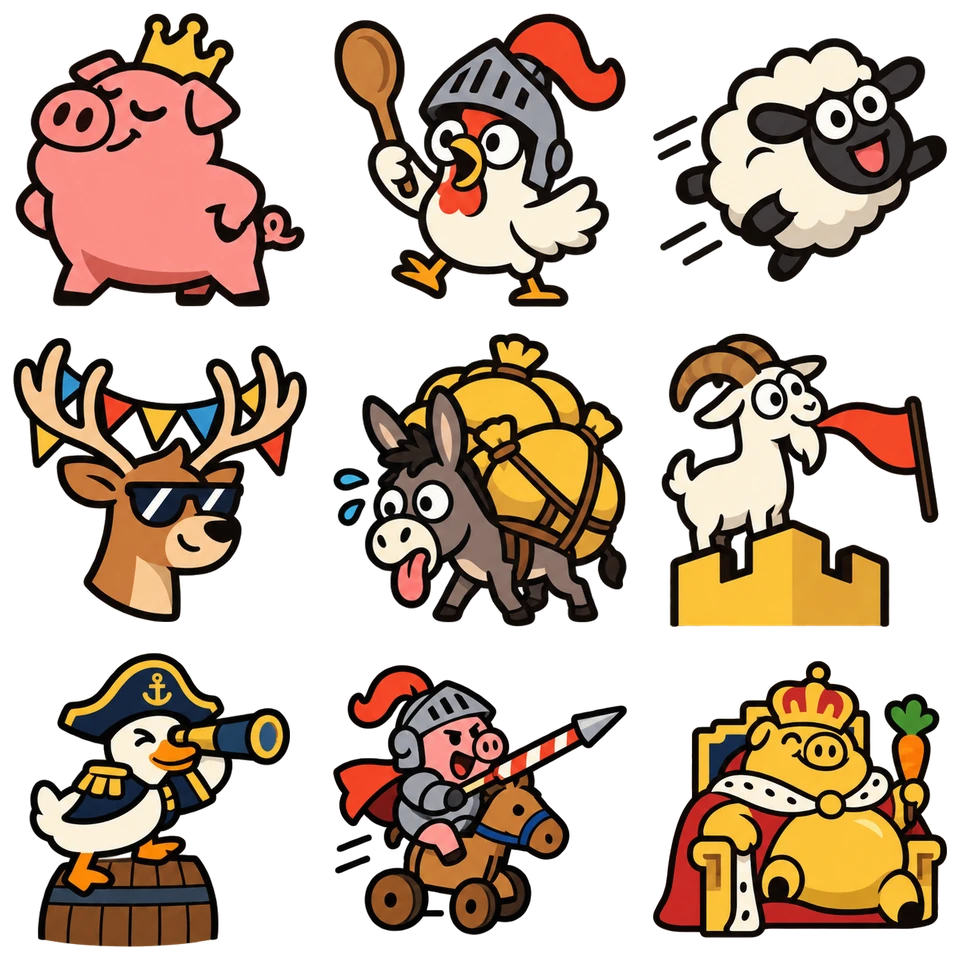
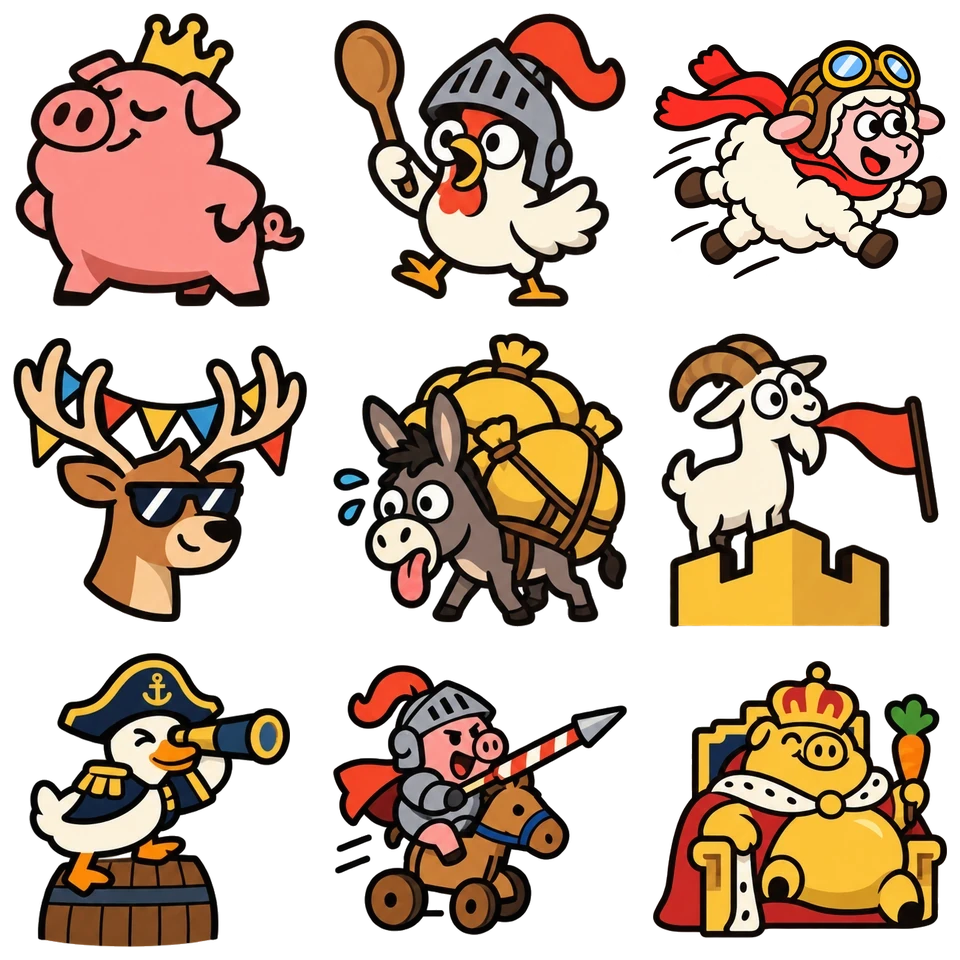
Basse-cour : le Mouton volant redessiné
Le premier, tête noire et laine blanche, rappelait trop un mouton de dessin
animé connu : les magasins refusent les personnages reconnaissables d'un
tiers (Apple 5.2.1). Le nouveau porte un bonnet d'aviateur et une écharpe.

Changed region(s): [[0.6562, 0.0312, 1.0, 0.3125]]

diff --git a/jeu/sw.js b/jeu/sw.js
@@ -1,5 +1,5 @@
 // Service worker : le jeu reste jouable hors ligne une fois chargé.
-const CACHE = 'age-empires-mobile-v70';
+const CACHE = 'age-empires-mobile-v71';
 // La musique (js/musique.js) : trois morceaux lourds. Ils ne sont pas pris à
 // l'installation mais à la première écoute, et gardés à part, comme les unités
 // en 3D : une mise à jour du jeu ne les fait pas retélécharger.

diff --git a/jeu/assets/SOURCES.md b/jeu/assets/SOURCES.md
@@ -48,7 +48,7 @@
 | `modeles/sol-chacal.json`, `sol-mehariste.json`, `sol-elite.json`, `sol-pretre.json` | La suite des **troupes des Solariens** en 3D : le Chacal dressé (éclaireur, à quatre pattes), le Méhariste sur son dromadaire (cavalerie lourde), le Garde masqué à tête de chacal (élite), le Prêtre du Soleil et son sceptre | Six vues dessinées par ChatGPT (même palette), forme et texture TripoSG ; animations des packs Loup, Cavalier, Milicien et Prêtre de l'Atelier 3D (le sceptre solaire est un accessoire ajouté à l'Atelier pour l'occasion) |
 | `modeles/sol-belier.json`, `sol-catapulte.json` | Les **engins des Solariens** : le bélier et la catapulte atlantes, bois reteinté en blond, ferrures en bronze doré | Modèles atlantes repris tels quels (mêmes animations), couleurs changées par programme |
 | `portrait-sol-chacal.webp`, `portrait-sol-mehariste.webp`, `portrait-sol-elite.webp`, `portrait-sol-pretre.webp`, `portrait-sol-belier.webp`, `portrait-sol-catapulte.webp` | Leurs portraits, 90×108 | Rendus de leurs modèles |
-| `collections/*.webp` (quatorze planches) | Les **autocollants des collections** : neuf par planche, en grille 3 × 3 de cases de 320 px (planche de 960 × 960), de gauche à droite et de haut en bas dans l'ordre de `js/collections-config.js` — La Basse-cour, La Grande Marée, Les Sables, Le Chantier, Les Gaffes de guerre, Les Monstres, Le Banquet, La Cour, La Nuit des Citrouilles, Le Grand Tournoi et Le Grand Froid (deux planches chacune). Style « boîte de jeu » : aplats vifs, contour d'encre épais, fond transparent | Une planche par demande à ChatGPT (la liste des neuf sujets, le style, l'icône du jeu jointe comme modèle), le 9 octobre 2026 ; chaque dessin isolé par ses pixels opaques, recadré et centré dans sa case par `decouper_planche.py` (hors dépôt) |
+| `collections/*.webp` (quatorze planches) | Les **autocollants des collections** : neuf par planche, en grille 3 × 3 de cases de 320 px (planche de 960 × 960), de gauche à droite et de haut en bas dans l'ordre de `js/collections-config.js` — La Basse-cour, La Grande Marée, Les Sables, Le Chantier, Les Gaffes de guerre, Les Monstres, Le Banquet, La Cour, La Nuit des Citrouilles, Le Grand Tournoi et Le Grand Froid (deux planches chacune). Style « boîte de jeu » : aplats vifs, contour d'encre épais, fond transparent | Une planche par demande à ChatGPT (la liste des neuf sujets, le style, l'icône du jeu jointe comme modèle), le 9 octobre 2026 ; chaque dessin isolé par ses pixels opaques, recadré et centré dans sa case par `decouper_planche.py` (hors dépôt). Le « Mouton volant » de la Basse-cour a été redessiné seul le même jour (bonnet d'aviateur, museau rose) : le premier rappelait trop un mouton de dessin animé connu |
 | `teintures/*.webp` (dix images) | Les **vignettes des teintures** : le Milicien atlante et le Garde solarien au repos, tels qu'ils sont peints (`origine-…`) puis dans chaque matière (`argent-…`, `jade-…`, `obsidienne-…`, `amethyste-…`), 112 × 112 | Tirées du jeu lui-même : l'atlas cuit de la troupe, passé par `teindrePixels` (`js/teintures.js`) — à refaire si une matière change de réglage |
 | `chevalier-3d.webp` | Essai « 3D précalculée » du milicien : un **chevalier 3D** rendu par Blender sous l'angle du jeu, huit directions × (course de 16 images, repos de 8, coup d'épée de 12), 128×128 par case | Modèle **KayKit Adventurers** de Kay Lousberg, domaine public (CC0) — voir « Deux essais de 3D » |
 | `chevalier-3d.json` | Essai « 3D en direct » : le même modèle, allégé — ses dix pièces utiles, trois animations sur 76 — et mis en glTF texte, données embarquées (527 Ko, 220 compressés, au lieu de 3,6 Mo) : tout hébergeur sert du JSON, pas toujours le .glb binaire | idem |
